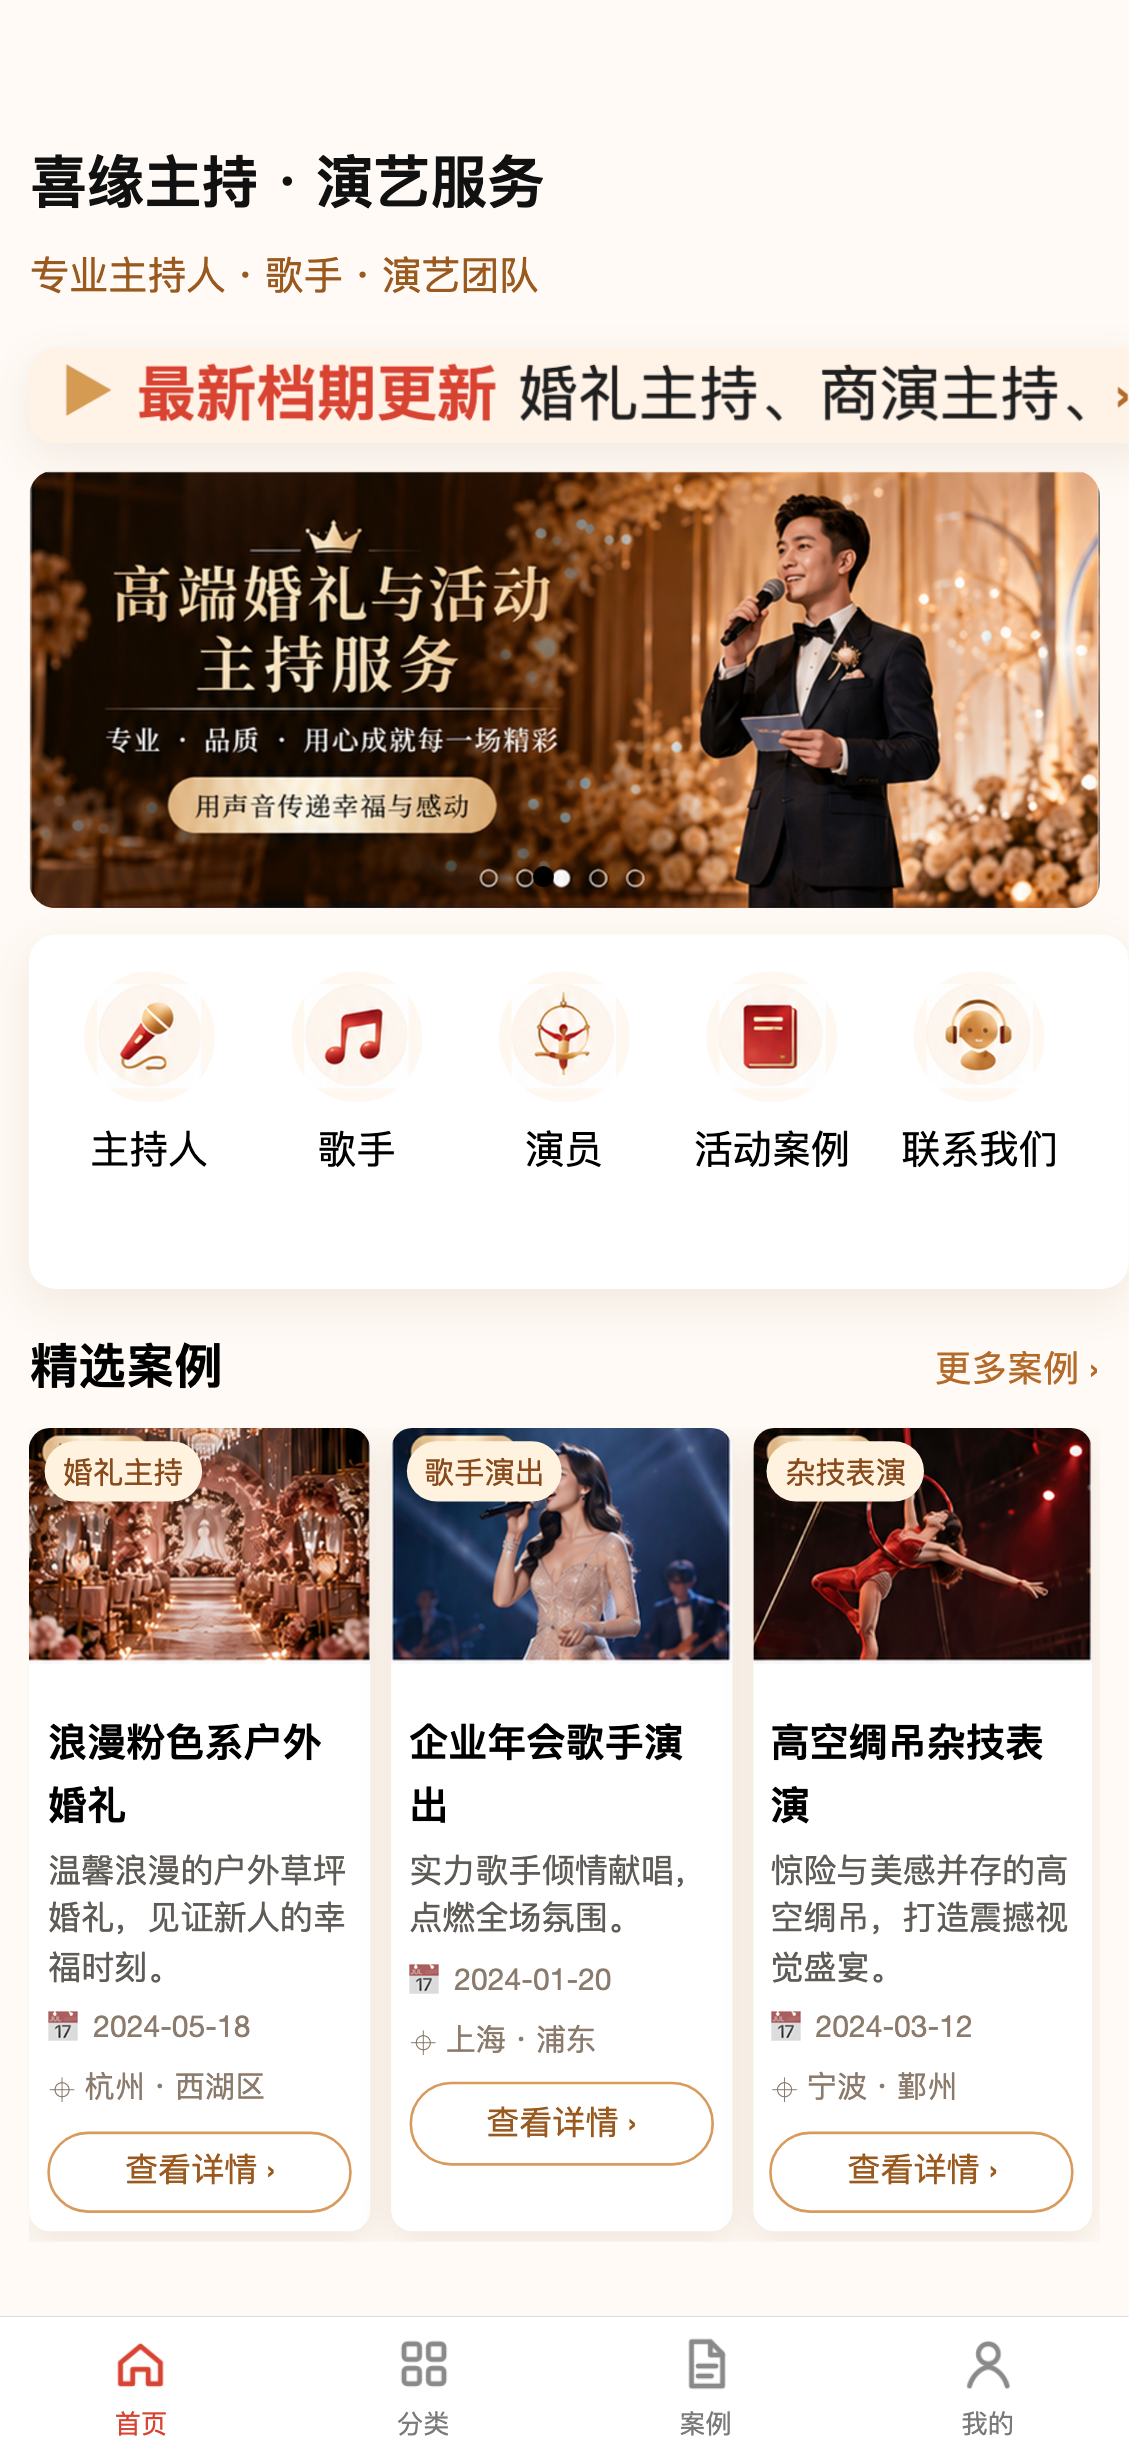
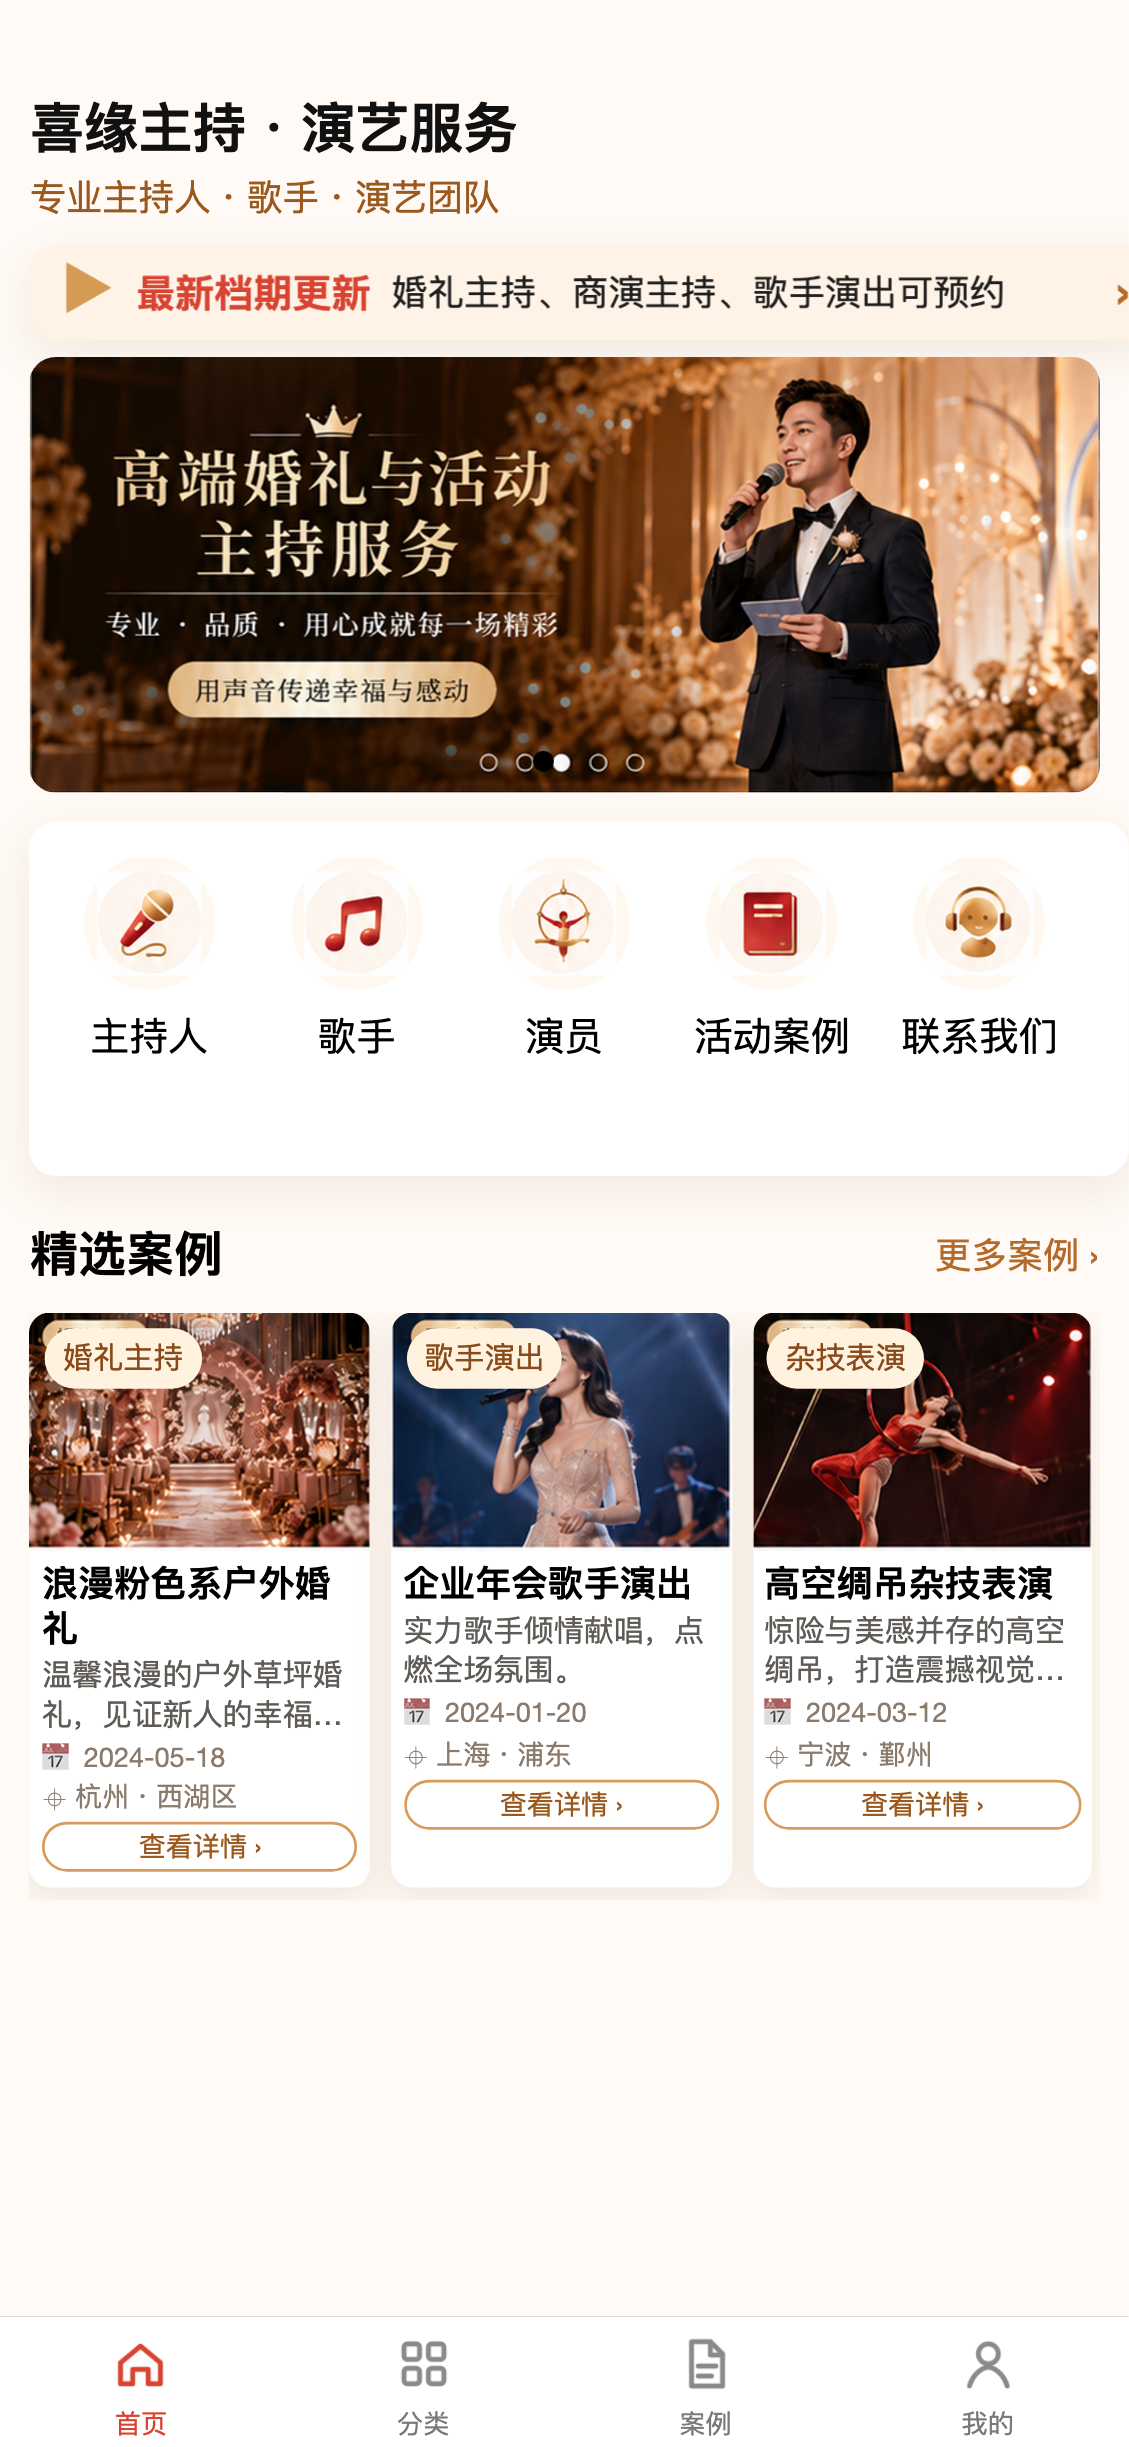
fix(miniapp): calibrate homepage visual scale

diff --git a/apps/miniapp/src/pages/index/index.scss b/apps/miniapp/src/pages/index/index.scss
@@ -1,25 +1,27 @@
 .home-header {
   display: flex;
   flex-direction: column;
-  gap: 10rpx;
-  padding-bottom: 28rpx;
+  gap: 8rpx;
+  padding-bottom: 12rpx;
 }
 
 .home-title {
-  font-size: 38rpx;
+  font-size: 36rpx;
   font-weight: 800;
+  line-height: 1.25;
   color: #111;
 }
 
 .home-subtitle {
-  font-size: 26rpx;
+  font-size: 24rpx;
+  line-height: 1.4;
   color: #9a5a1f;
 }
 
 .notice {
-  min-height: 64rpx;
+  min-height: 56rpx;
   padding: 0 22rpx;
-  margin-bottom: 18rpx;
+  margin-bottom: 12rpx;
   display: flex;
   align-items: center;
   gap: 14rpx;
@@ -46,6 +48,8 @@
 
 .notice__summary {
   color: #d94332;
+  font-size: 26rpx;
+  line-height: 1.35;
   font-weight: 700;
   white-space: nowrap;
 }
@@ -53,6 +57,8 @@
 .notice__content {
   flex: 1;
   color: #1f1f1f;
+  font-size: 24rpx;
+  line-height: 1.35;
   white-space: nowrap;
   overflow-x: auto;
 }
@@ -171,6 +177,7 @@
 }
 
 .case-card__image {
+  display: block;
   width: 226rpx;
   height: 158rpx;
 }
@@ -187,34 +194,50 @@
 }
 
 .case-card__body {
-  padding: 12rpx;
+  box-sizing: border-box;
+  height: 224rpx;
+  padding: 8rpx;
   display: flex;
   flex-direction: column;
-  gap: 8rpx;
+  gap: 4rpx;
+  overflow: hidden;
 }
 
 .case-card__title {
-  font-size: 26rpx;
+  display: -webkit-box;
+  overflow: hidden;
+  -webkit-box-orient: vertical;
+  -webkit-line-clamp: 2;
+  font-size: 24rpx;
   font-weight: 700;
+  line-height: 1.2;
 }
 
 .case-card__summary {
+  display: -webkit-box;
+  overflow: hidden;
+  -webkit-box-orient: vertical;
+  -webkit-line-clamp: 2;
   color: #5f5b57;
-  font-size: 22rpx;
-  line-height: 1.45;
+  font-size: 20rpx;
+  line-height: 1.3;
 }
 
 .case-card__meta {
   color: #8b7b6d;
-  font-size: 20rpx;
+  overflow: hidden;
+  font-size: 18rpx;
+  line-height: 1.3;
+  text-overflow: ellipsis;
+  white-space: nowrap;
 }
 
 .case-card__button {
-  margin-top: 4rpx;
   border: 1rpx solid #d89b5d;
   border-radius: 999rpx;
   text-align: center;
   color: #9a5a1f;
-  padding: 8rpx 0;
-  font-size: 22rpx;
+  padding: 4rpx 0;
+  font-size: 18rpx;
+  line-height: 1.2;
 }

diff --git a/tests/e2e/miniapp-h5.spec.ts b/tests/e2e/miniapp-h5.spec.ts
@@ -104,6 +104,36 @@ test("首页成功加载，小程序名和副标题来自接口", async ({ page,
   await expect(page.getByTestId("home-subtitle")).toHaveText(home.site.subtitle);
 });
 
+test("首页 H5 顶部留白接近参考图", async ({ page }) => {
+  await openHome(page);
+  const metrics = await page.evaluate(() => {
+    const getRect = (selector: string) => {
+      const node = document.querySelector(selector);
+      if (!node) throw new Error(`Missing ${selector}`);
+      return node.getBoundingClientRect();
+    };
+
+    const title = getRect('[data-testid="home-app-name"]');
+    const banner = getRect('[data-testid="home-banner"]');
+    return {
+      titleTop: title.top,
+      bannerTop: banner.top,
+      bannerRatio: banner.width / banner.height
+    };
+  });
+
+  expect(metrics.titleTop).toBeLessThanOrEqual(44);
+  expect(metrics.bannerTop).toBeLessThanOrEqual(138);
+  expect(metrics.bannerRatio).toBeCloseTo(710 / 290, 1);
+});
+
+test("首页案例卡片高度接近参考图", async ({ page }) => {
+  await openHome(page);
+  const firstCaseHeight = await page.getByTestId("home-case-card").first().evaluate((node) => node.getBoundingClientRect().height);
+
+  expect(firstCaseHeight).toBeLessThanOrEqual(220);
+});
+
 test("无公告时公告栏隐藏", async ({ page, request }) => {
   await setAnnouncementStatus(request, "disabled");
   await openHome(page);

diff --git a/apps/miniapp/src/pages/index/index.tsx b/apps/miniapp/src/pages/index/index.tsx
@@ -34,6 +34,7 @@ function openMenu(type: string) {
 
 function useSafeTop() {
   return useMemo(() => {
+    if (Taro.getEnv() === Taro.ENV_TYPE.WEB) return 36;
     try {
       const rect = Taro.getMenuButtonBoundingClientRect?.();
       if (rect?.top) return rect.top + 12;

diff --git a/docs/plans/07-home-visual-calibration-plan.md b/docs/plans/07-home-visual-calibration-plan.md
@@ -1,0 +1,50 @@
+# Home Visual Calibration Plan
+
+## Goal
+Bring the Taro H5 homepage typography, component scale, and vertical rhythm into basic visual alignment with `docs/design/reference-home.png`, while preserving the phase-one data model and five-menu scope.
+
+## Design Decision
+- Preserve the `750rpx` layout baseline, `20rpx` page gutters, `710rpx x 290rpx` Banner and the five supported menu types.
+- Compare logical layout, not raw PNG pixels: the reference is a 375-point mobile composition and the H5 test runs at a 430px mobile viewport with a different device scale factor.
+- In H5, use a smaller safe-top fallback than WeChat because the browser does not render the capsule button. In WeChat, retain the runtime menu-button calculation.
+- Keep all three featured cards visible in the horizontal row and cap text to a predictable two-line hierarchy so card heights remain comparable.
+
+## Files
+- Modify: `apps/miniapp/src/pages/index/index.tsx` - select a platform-aware header safe-top fallback.
+- Modify: `apps/miniapp/src/pages/index/index.scss` - tune type scale, block spacing, and case-card text clamping.
+- Modify: `tests/e2e/miniapp-h5.spec.ts` - add geometry assertions before changing production styles.
+- Modify: `docs/plans/README.md` - index this plan.
+- Modify: `docs/stages/04-miniapp-home.md` and `docs/stages/05-e2e-and-design-review.md` - record the completed calibration and screenshot review.
+
+## Target Geometry At The H5 Test Viewport
+- Header title top is within 30-44 CSS px; its visual role is 36rpx bold with a 24rpx subtitle.
+- Announcement starts within 76-96 CSS px, and Banner starts within 112-138 CSS px; the Banner keeps its 710:290 ratio.
+- Menu icons retain 88rpx visual size; five menu items occupy one row because only five phase-one menu types are seeded.
+- Featured-case title and summary render at no more than two lines. The first featured-card height is at most 220 CSS px in the fixed Playwright viewport.
+- The fixed four-item TabBar remains visible and no homepage content overlaps it.
+
+## Task 1 - Establish Failing Visual Geometry Coverage
+
+1. Add a `首页视觉尺寸与位置接近参考图` test after `首页成功加载，小程序名和副标题来自接口` in `tests/e2e/miniapp-h5.spec.ts`.
+2. In the test, call `openHome(page)` and collect `getBoundingClientRect()` values for `[data-testid="home-app-name"]`, `[data-testid="home-announcement"]`, `[data-testid="home-banner"]`, `[data-testid="home-menu"]`, and the first `[data-testid="home-case-card"]`.
+3. Assert `title.top` is at most `44`, `banner.top` is at most `138`, `banner.width / banner.height` is close to `710 / 290`, and the first case-card height is at most `220`.
+4. Run `pnpm e2e -- --grep "首页视觉尺寸与位置接近参考图"` with the same elevated execution needed for the Taro H5 server. The existing H5 fallback and unbounded case copy must fail the title/top or card-height assertion before implementation.
+
+## Task 2 - Calibrate The Homepage Without Changing Its Contract
+
+1. In `useSafeTop`, return `32` for the Taro H5 environment before trying the WeChat capsule calculation. Preserve `rect.top + 12` for the mini program and the current `52` fallback for non-H5 runtime failures.
+2. In `index.scss`, set an explicit 36rpx / 24rpx header scale with stable line heights; give announcement summary/content explicit 26rpx / 24rpx roles; retain the warm colors and 710rpx container geometry.
+3. Tighten the case-card rhythm with 24rpx title, 20rpx summary, 20rpx metadata, 20rpx button label, 6rpx internal gaps, and two-line title/summary clamps. Keep the 226rpx x 158rpx image footprint and click behavior unchanged.
+4. Run the focused visual geometry test again. It must pass without weakening its thresholds.
+
+## Task 3 - Verify, Capture, and Document
+
+1. Run `pnpm lint`, `pnpm test`, `pnpm e2e`, `pnpm --filter miniapp build:h5`, and `pnpm build:weapp`. Run H5/Taro commands with elevated execution if the current sandbox again blocks macOS SystemConfiguration.
+2. Inspect the regenerated `docs/design/actual-home-h5.png` beside `docs/design/reference-home.png`: title/subtitle, announcement, Banner, menu icon row, featured case cards, and TabBar must retain their intended alignment and proportions.
+3. Mark this plan's three tasks complete; update Stage 4 and Stage 5 with the measured scope and current screenshot path.
+4. Commit the implementation and documentation with a Conventional Commit after the verification matrix passes.
+
+## Completion
+- [x] Task 1: Added deterministic H5 geometry checks for the header/Banner position and first featured-card height; both checks failed against the prior styles.
+- [x] Task 2: Added an H5-only 36px safe-top, explicit header/notice line heights, a compact 224rpx card body, two-line clamps, and block-level cover images.
+- [x] Task 3: `pnpm e2e` passed 20 scenarios and regenerated `docs/design/actual-home-h5.png`. Final lint, unit, and build verification is recorded in the Stage 4/5/6 documents.

diff --git a/docs/stages/06-weapp-build-and-deploy.md b/docs/stages/06-weapp-build-and-deploy.md
@@ -40,15 +40,16 @@ pnpm build:weapp
 - [x] 最终命令矩阵已运行并记录
 
 ## 已完成事项
-- 2026-07-10 最终复核：`pnpm install`、`pnpm lint`、`pnpm test`、`pnpm e2e`、`pnpm --filter api build`、`pnpm --filter admin build`、`pnpm --filter miniapp build:h5`、`pnpm build:weapp` 全部完成。安装输出为 `Already up to date`；测试包含 shared 4 项、api 11 项，Playwright 18 项且运行记录为 `passed`。
+- 2026-07-10 最终复核：`pnpm install`、`pnpm lint`、`pnpm test`、`pnpm e2e`、`pnpm --filter api build`、`pnpm --filter admin build`、`pnpm --filter miniapp build:h5`、`pnpm build:weapp` 全部完成。安装输出为 `Already up to date`；测试包含 shared 4 项、api 11 项，Playwright 20 项且运行记录为 `passed`。
 - `pnpm install`：当前 Codex 无 TTY 环境下直接运行会触发 pnpm module purge 确认并中断；按 pnpm 提示使用 `CI=true pnpm install` 后通过。
 - `pnpm lint`：通过。
 - `pnpm test`：通过；sandbox 内 Prisma engine cache 写入 `~/.cache/prisma` 被拒，使用提升权限运行后通过，shared 4 个测试、api 11 个测试全部通过。
-- `pnpm e2e`：通过；Admin 与 Miniapp H5 共 18 个 Playwright 场景全部通过。
+- `pnpm e2e`：通过；Admin 与 Miniapp H5 共 20 个 Playwright 场景全部通过，包含首页顶部/Banner 几何与精选案例卡片高度回归。
 - `pnpm --filter api build`：通过；包含 Prisma Client 生成和 TypeScript noEmit。
 - `pnpm --filter admin build`：通过；Vite 构建成功，有 Ant Design 后台首包大 chunk 警告。
 - `pnpm --filter miniapp build:h5`：通过；Taro H5 构建成功，有参考图生成大图资源体积警告。
 - `pnpm build:weapp`：通过；微信小程序端产物已生成到 `apps/miniapp/dist`。
+- 首页视觉校准后复跑：`pnpm lint`、`pnpm test`、`pnpm e2e`、`pnpm --filter miniapp build:h5`、`pnpm build:weapp` 均通过；H5 截图已更新，Playwright 总数为 20。
 - `.env.example` 已修正为 `VITE_API_BASE_URL` 与 `TARO_APP_API_BASE_URL`。
 - README 已补全安装、数据库、seed、启动、构建、测试、默认账号、生产注意事项、上传目录和对象存储预留说明。
 

diff --git a/docs/stages/04-miniapp-home.md b/docs/stages/04-miniapp-home.md
@@ -30,6 +30,8 @@
 - 首页调用 `GET /api/client/home`，成功后上报 `POST /api/client/track/page-view`。
 - 首页实现顶部标题区、公告栏、Banner、菜单卡片、精选案例、失败重试状态、空状态和图片 fallback。
 - 菜单跳转规则严格对应 `host`、`singer`、`actor`、`activity_case`、`contact`。
+- 已完成首页视觉校准：H5 顶部安全区为 36px，微信端仍使用胶囊按钮位置；标题/副标题采用 36rpx/24rpx 明确行高，公告栏与 Banner 纵向节奏对齐参考图。
+- 已将精选案例卡片的文字区固定为 224rpx，标题与简介限制为两行，封面改为块级元素以消除 H5 行内基线空隙；首卡 H5 实测高度为 219px。
 - H5 和 weapp 构建均已成功。
 - 验证通过：`pnpm --filter miniapp build:h5`、`pnpm build:weapp`、`pnpm lint`、`pnpm test`。
 
@@ -37,4 +39,4 @@
 6dd9a7d
 
 ## 已知问题或设计取舍
-参考图下方扩展模块不纳入一期交互范围。Taro 构建需要写入 `~/.taro4.0` 缓存目录，sandbox 内需授权运行。H5/weapp 构建对 `banner-default.png` 和 `placeholder-banner.png` 给出资源体积警告；这些文件按固定尺寸生成用于测试和 seed，后续生产应替换为压缩后的正式素材或 CDN 资源。
+参考图下方扩展模块不纳入一期交互范围。H5 截图不模拟微信状态栏和胶囊按钮，因此采用独立的 36px 顶部安全区；微信端保持运行时胶囊按钮适配。Taro 构建需要写入 `~/.taro4.0` 缓存目录，sandbox 内需授权运行。H5/weapp 构建对 `banner-default.png` 和 `placeholder-banner.png` 给出资源体积警告；这些文件按固定尺寸生成用于测试和 seed，后续生产应替换为压缩后的正式素材或 CDN 资源。

diff --git a/docs/plans/README.md b/docs/plans/README.md
@@ -9,6 +9,7 @@ These files preserve execution details outside chat context. Agents must read `A
 - `04-miniapp-home-plan.md`
 - `05-e2e-and-design-review-plan.md`
 - `06-release-integration-plan.md`
+- `07-home-visual-calibration-plan.md`
 - `agent-handoffs.md`
 
 When implementation changes a plan, update the matching file and the stage document in `docs/stages`.
